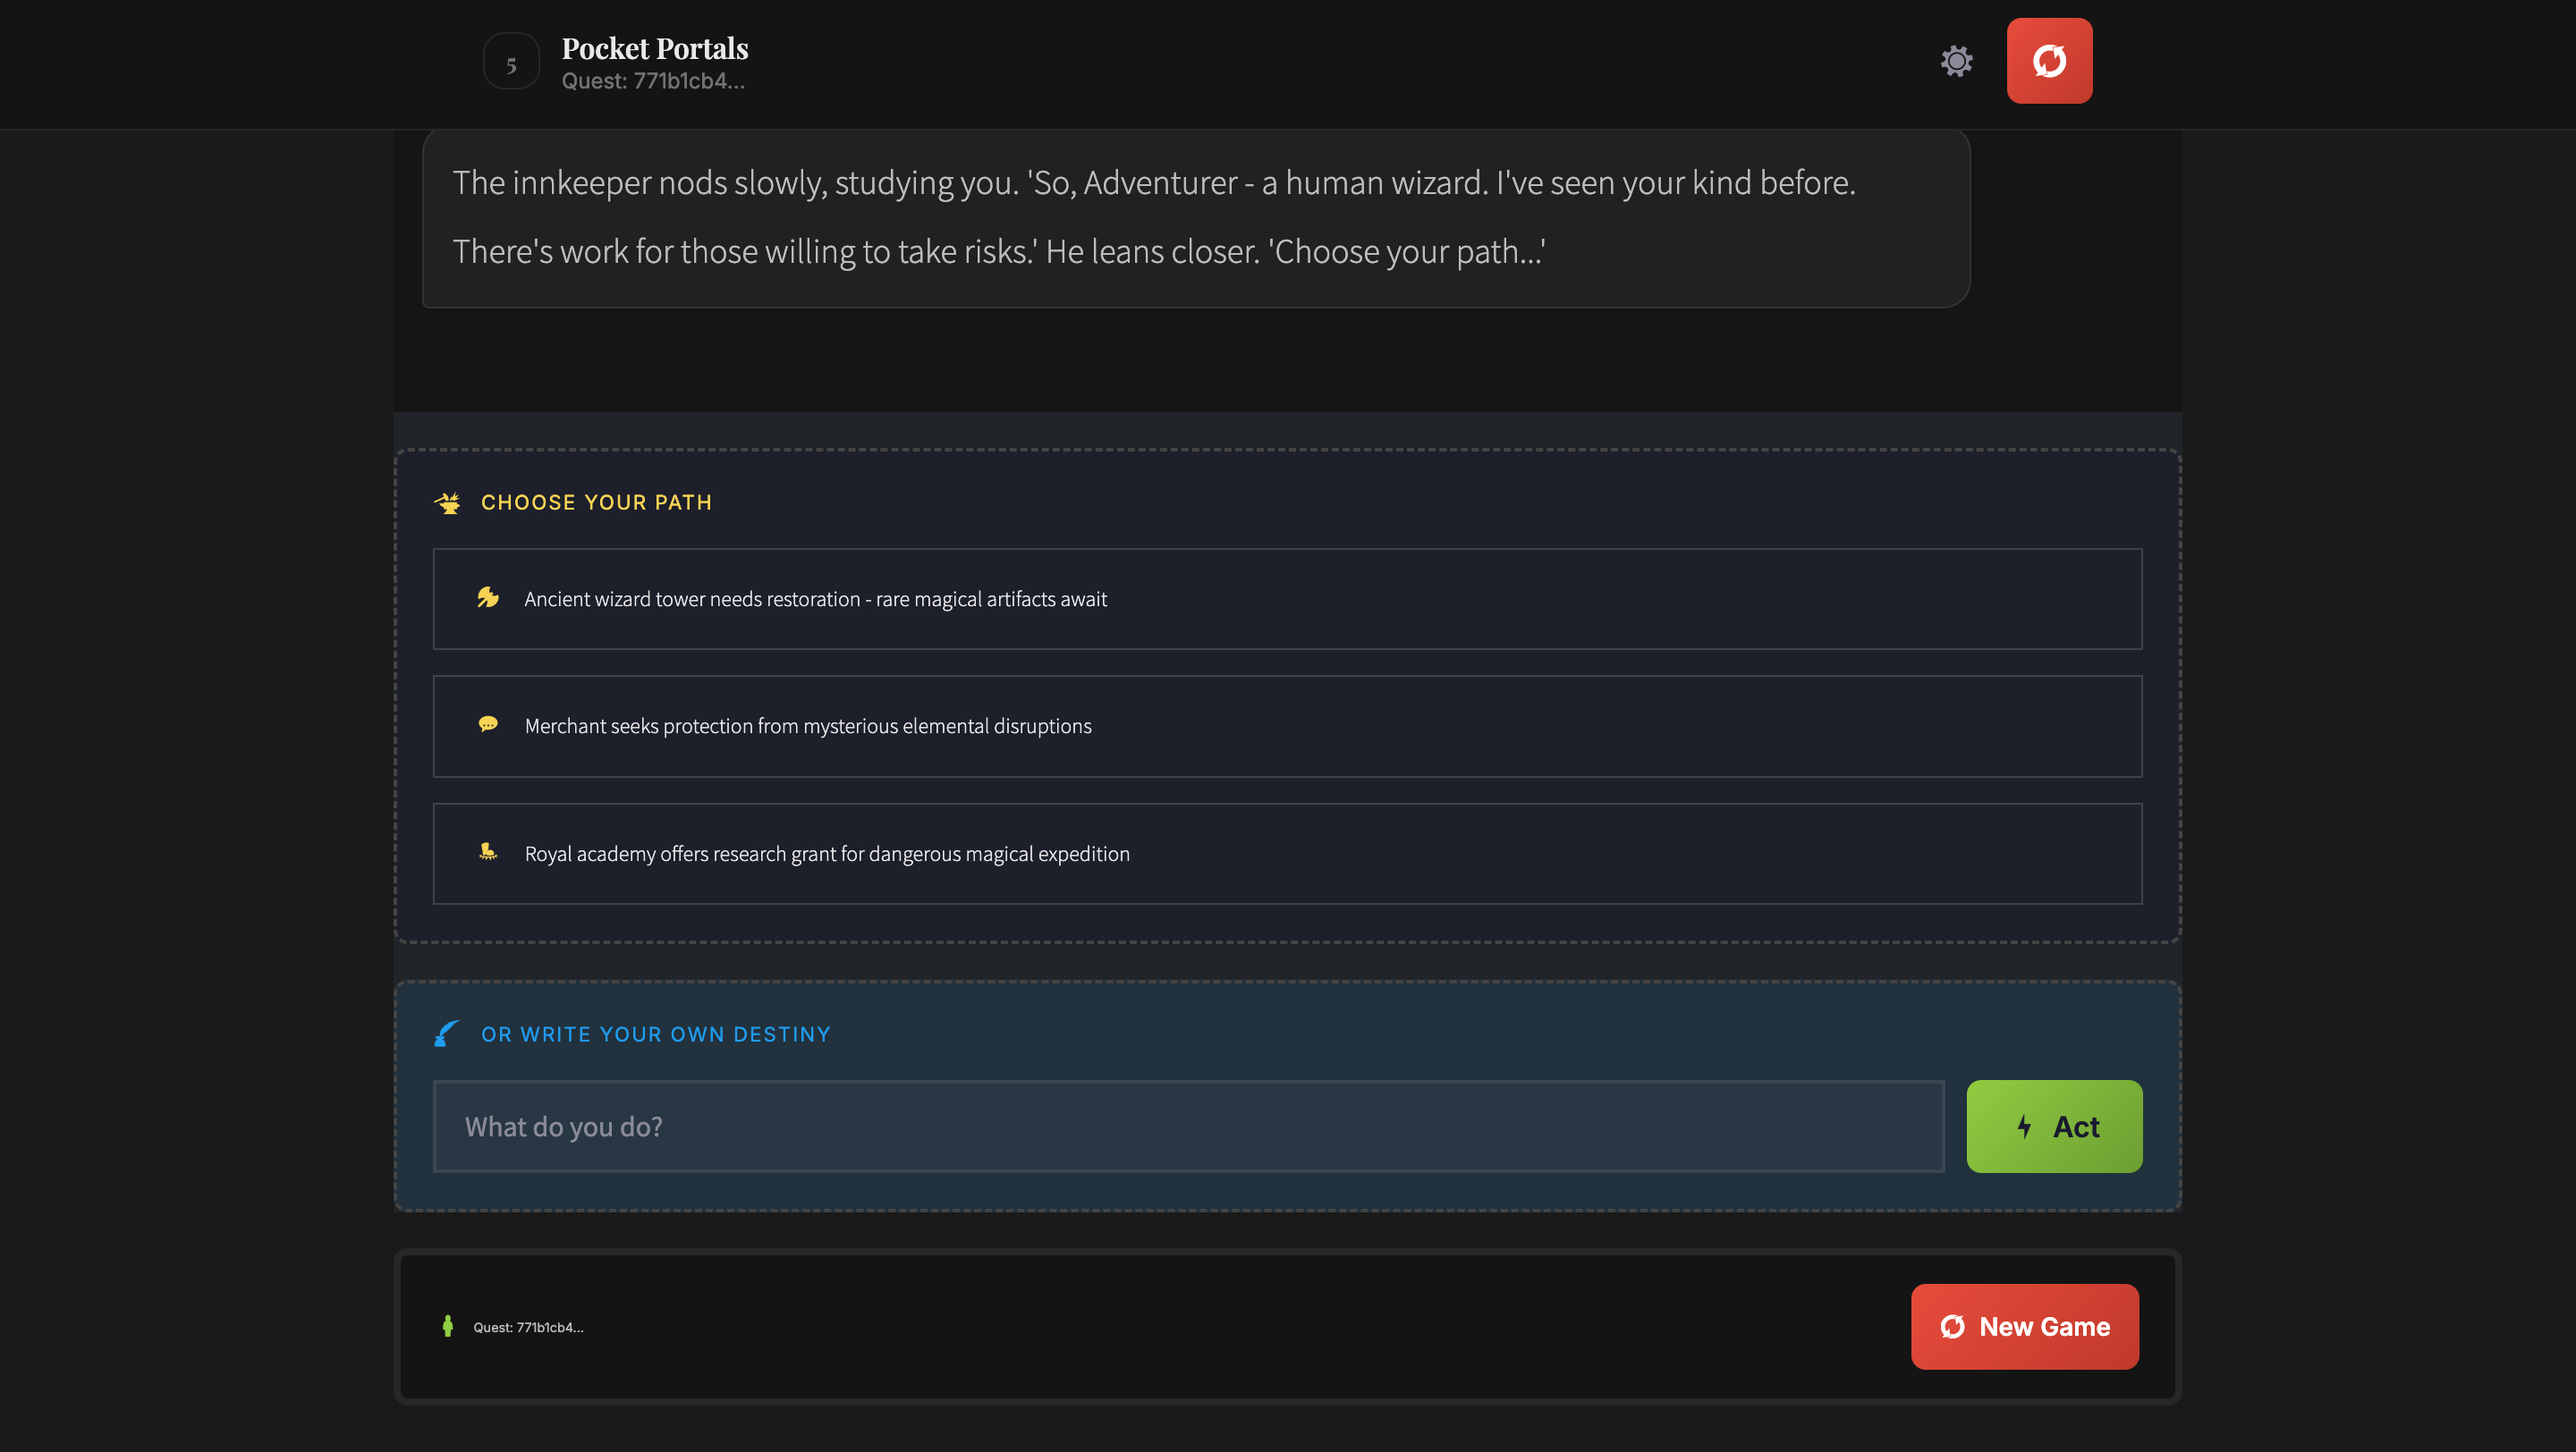
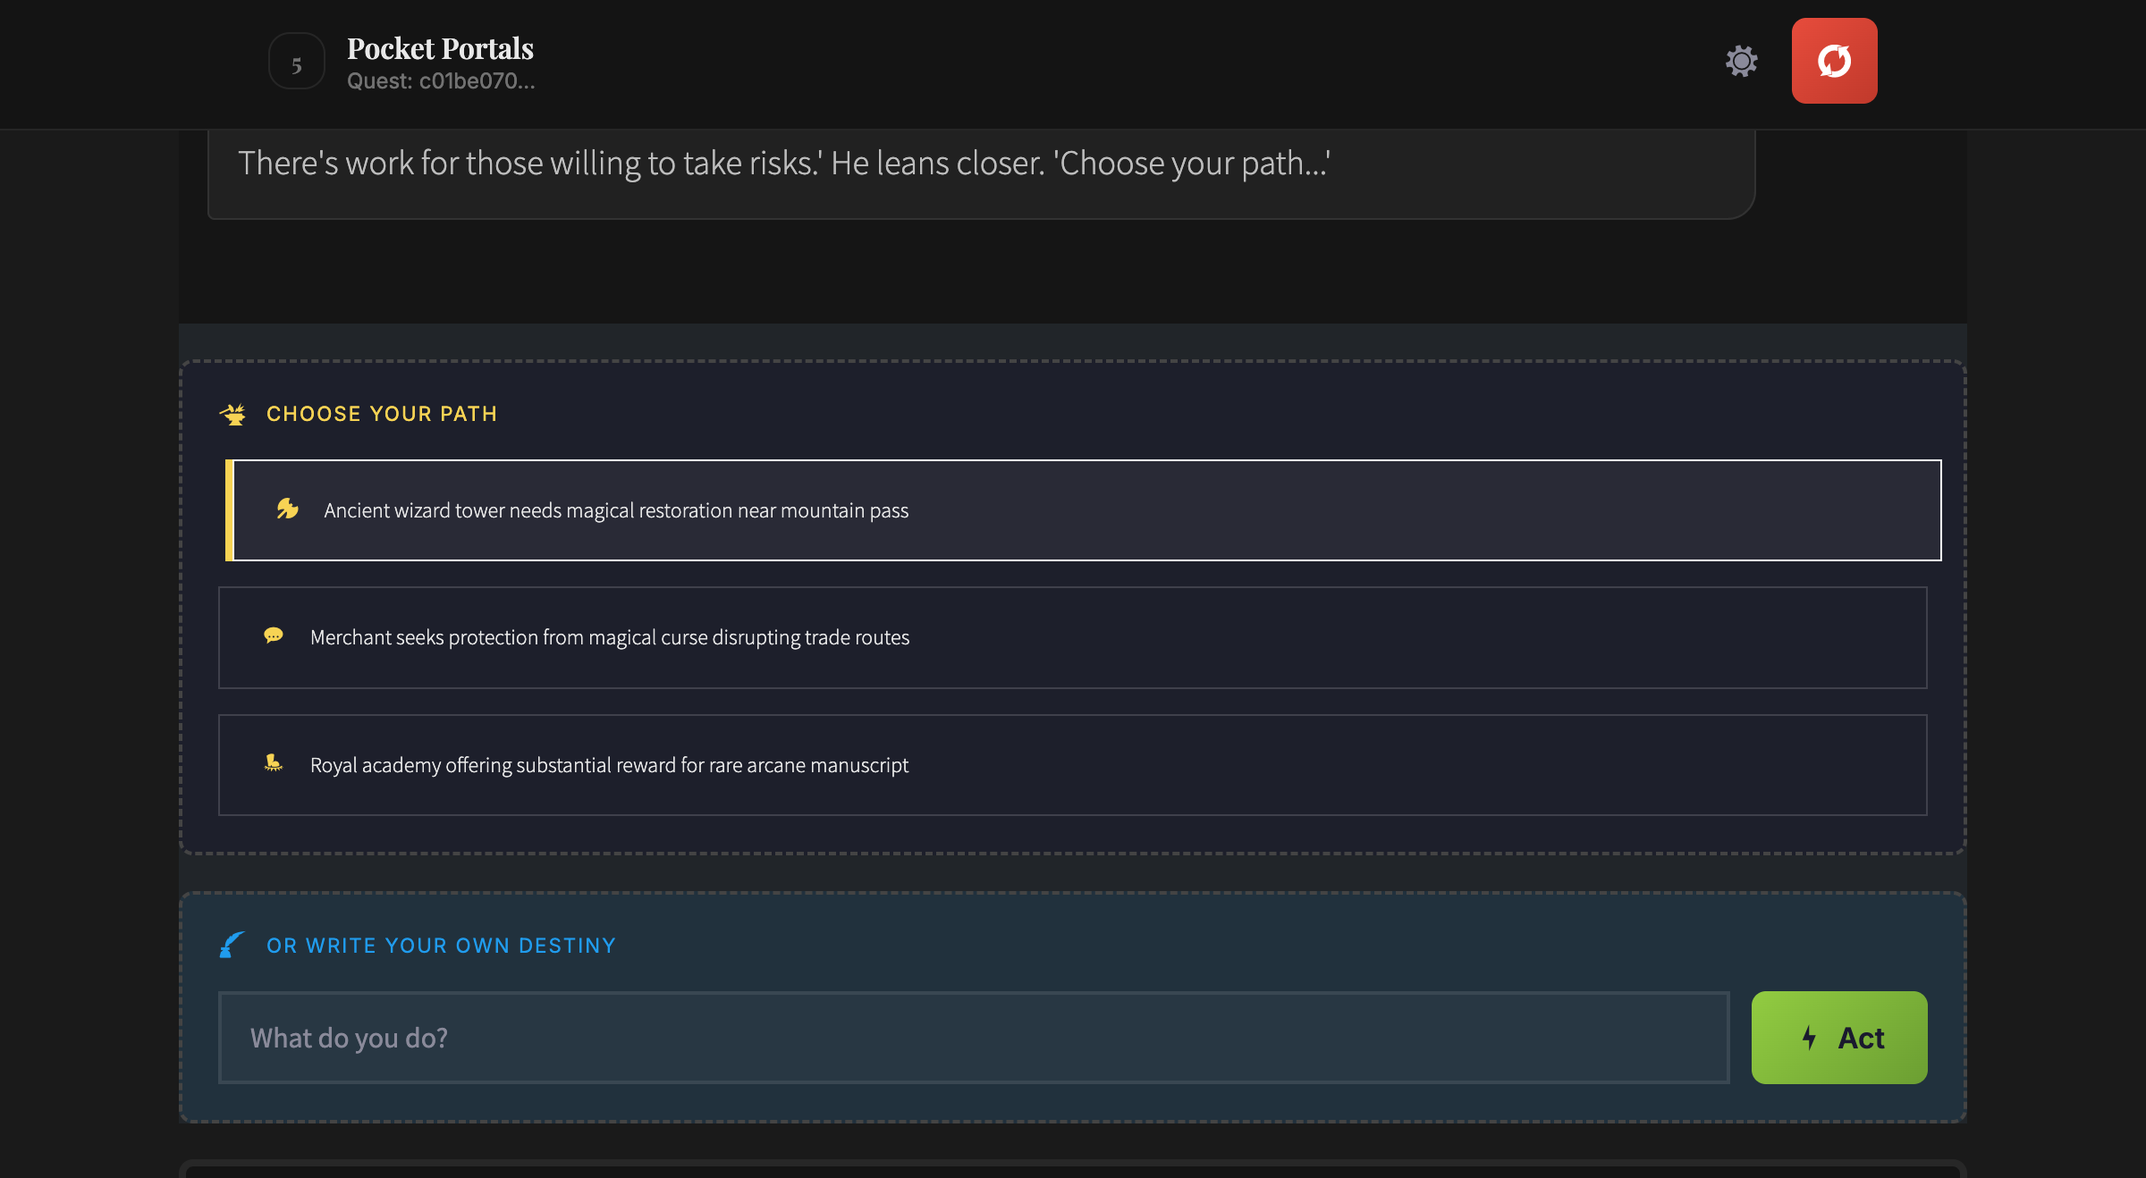
docs: Update documentation for quest system enhancement
- Update docs/README.md with quest system links and game flow
- Update docs/product.md with quest selection features (v1.1)
- Update tasks.md with completed quest work
- Add E2E screenshots for quest selection flow

🤖 Generated with [Claude Code](https://claude.com/claude-code)

diff --git a/docs/product.md b/docs/product.md
@@ -1,7 +1,7 @@
 # Pocket Portals
 ## Product Requirements Document
 
-**Version 1.0 | December 2025**
+**Version 1.1 | January 2026**
 
 ---
 
@@ -36,10 +36,11 @@ Pocket Portals is a web application that generates personalized one-shot D&D adv
 | **Backend** | FastAPI REST API | `/health`, `/start`, `/action`, `/action/stream` endpoints |
 | **Backend** | SSE Streaming | Real-time agent responses via Server-Sent Events |
 | **Backend** | Session Management | UUID-based multi-user support with in-memory state |
-| **Agents** | Multi-Agent System | Narrator, Keeper, Jester, Innkeeper, CharacterInterviewer, Epilogue |
+| **Agents** | Multi-Agent System | Narrator, Keeper, Jester, Innkeeper, CharacterInterviewer, QuestDesigner, Epilogue |
 | **Agents** | Agent Router | Phase-based routing with mechanical keyword detection |
 | **Agents** | Turn Executor | Context accumulation across sequential agent calls |
 | **Agents** | Character Creation | Dynamic 5-turn LLM-powered interview with CharacterInterviewerAgent |
+| **Agents** | Quest Selection | 3 personalized quest options with QuestDesignerAgent |
 | **Agents** | Adventure Pacing | 50-turn narrative arc with 5 phases, EpilogueAgent for conclusions |
 | **Orchestration** | CrewAI Flows | `@start`, `@listen`, `@router` decorator-based orchestration |
 | **Config** | YAML-based Config | `agents.yaml`, `tasks.yaml` for agent personalities |
@@ -51,17 +52,25 @@ Pocket Portals is a web application that generates personalized one-shot D&D adv
 | **Combat** | D&D 5e Mechanics | Initiative, attack/defend/flee, HP tracking, dice rolling |
 | **DevOps** | Docker | Multi-stage build with docker-compose |
 | **DevOps** | CI/CD | GitHub Actions with lint, test, coverage gates |
-| **Quality** | Python Tests | 368 tests passing, 75% coverage |
+| **Quality** | Python Tests | 408 tests passing, 77% coverage |
 | **Quality** | JavaScript Tests | 415 tests passing, 96.49% coverage |
 | **Quality** | XP Practices | TDD, pre-commit hooks (ruff, mypy), continuous integration |
-| **Docs** | E2E Test Suite | Playwright-based testing with 8 documented scenarios |
+| **Docs** | E2E Test Suite | Playwright-based testing with 10 documented scenarios |
+
+#### ✅ Recently Completed (January 2026)
+
+| Feature | Details |
+|---------|---------|
+| Quest Selection Flow | QUEST_SELECTION phase with 3 personalized quest options |
+| Quest Progress Tracking | `check_quest_progress()` integrated in action loop |
+| Quest Personalization | Class-specific quest generation using CHARACTER_STRENGTHS |
+| Quest Variety | Shuffled quest pool ensures diverse options |
 
 #### 🚧 In Progress
 
 | Feature | Requirements | Status |
 |---------|--------------|--------|
 | Character Sheet Display | FR-03 | Show character info in frontend UI |
-| Enhanced Quest Personalization | FR-05 | Use character context in quest generation |
 
 #### 📋 Planned
 
@@ -70,6 +79,7 @@ Pocket Portals is a web application that generates personalized one-shot D&D adv
 | Character Stat Influence | P1 | Keeper uses stats for mechanical resolution |
 | Export Features | P1 | Adventure log download |
 | Shareable Story Links | P2 | Adventure sharing |
+| Quest Completion Loop | P1 | New quests after completing current quest |
 
 ---
 

diff --git a/docs/README.md b/docs/README.md
@@ -10,6 +10,8 @@ Technical documentation for the multi-agent AI adventure system.
 | [Architecture](architecture.md) | System design and patterns |
 | [Blueprint](guides/BLUEPRINT.md) | Comprehensive implementation guide |
 | [Crews & Flows](guides/CREWS-AND-FLOWS.md) | CrewAI patterns and agent orchestration |
+| [Quest System](design/quest-system.md) | Quest design and selection flow |
+| [E2E Testing](playwright-e2e-suite.md) | Playwright test scenarios |
 
 ## Documentation Structure
 
@@ -34,10 +36,13 @@ docs/
 │   └── xp.md                   # XP methodology
 │
 ├── design/
+│   ├── quest-system.md         # Quest generation & selection
 │   ├── choice-system.md        # Choice mechanics
 │   ├── conversation-context.md # Context management
 │   ├── mobile-ux-improvement-plan.md  # Mobile UX design
 │   └── 2025-12-*.md            # Design documents
+│
+├── e2e-screenshots/            # Playwright test screenshots
 │
 ├── adr/
 │   └── 001-agent-service-pattern.md
@@ -50,7 +55,7 @@ docs/
 
 ### Multi-Agent Architecture
 
-Five specialized agents coordinate to generate adventures:
+Six specialized agents coordinate to generate adventures:
 
 | Agent | Role | When Invoked |
 |-------|------|--------------|
@@ -59,6 +64,13 @@ Five specialized agents coordinate to generate adventures:
 | Jester | Chaos injection | 15% probability |
 | Innkeeper | Quest hooks | Session start |
 | Interviewer | Character creation | First 5 turns |
+| QuestDesigner | Quest generation | Quest selection phase |
+
+### Game Flow
+
+```
+CHARACTER_CREATION (5 turns) → QUEST_SELECTION (3 options) → EXPLORATION → Combat/Quest Complete → Loop
+```
 
 ### Hybrid Design Pattern
 
@@ -84,12 +96,13 @@ graph TD
 
 ## Project Status
 
-- **Backend**: 296+ Python tests passing (pytest)
-- **Frontend**: Vitest + jsdom test suite
-- **Coverage**: 70%+ on critical paths
+- **Backend**: 408 Python tests passing (pytest)
+- **Frontend**: 415 Vitest + jsdom tests
+- **Coverage**: 77% overall
 - **Pre-commit hooks** enforced (ruff, mypy)
 - **CI/CD**: Frontend and backend tests run on push/PR to main
+- **E2E Testing**: Playwright MCP for browser automation
 
 ---
 
-*Updated January 2025*
+*Updated January 2, 2026*

diff --git a/tasks.md b/tasks.md
@@ -163,7 +163,6 @@ gantt
 | Task | Status | Notes |
 |------|--------|-------|
 | Add character sheet display to UI | ⏳ | Show character info in frontend |
-| Enhanced quest personalization | ⏳ | Use character context in quest generation |
 
 ### Up Next
 
@@ -171,11 +170,17 @@ gantt
 |------|--------|----------|
 | Character stat influence on outcomes | ⏳ | Keeper uses stats for mechanical resolution |
 | Export adventure log | ⏳ | Downloadable adventure summary |
+| Quest completion → new quest loop | ⏳ | After completing quest, return to QUEST_SELECTION |
 
-### Recently Completed
+### Recently Completed (January 2026)
 
 | Task | Status | Notes |
 |------|--------|-------|
+| Quest selection flow | ✅ | QUEST_SELECTION phase with 3 personalized options |
+| Quest progress tracking | ✅ | `check_quest_progress()` integrated in action loop |
+| Quest personalization | ✅ | Class-specific quests using CLASS_STRENGTHS mapping |
+| Quest variety generation | ✅ | Shuffled pool ensures diverse options each game |
+| E2E test validation | ✅ | Playwright tests for quest selection flow |
 | Dynamic character starter generation | ✅ | Agent generates 9 diverse choices across genres (fantasy/sci-fi/modern), shuffles and returns 3 random ones per game |
 | Fix ES6 module loading | ✅ | Added `type="module"` to all script tags in index.html |
 | Playwright E2E Test Suite | ✅ | 8 test scenarios documented in `docs/playwright-e2e-suite.md` |
